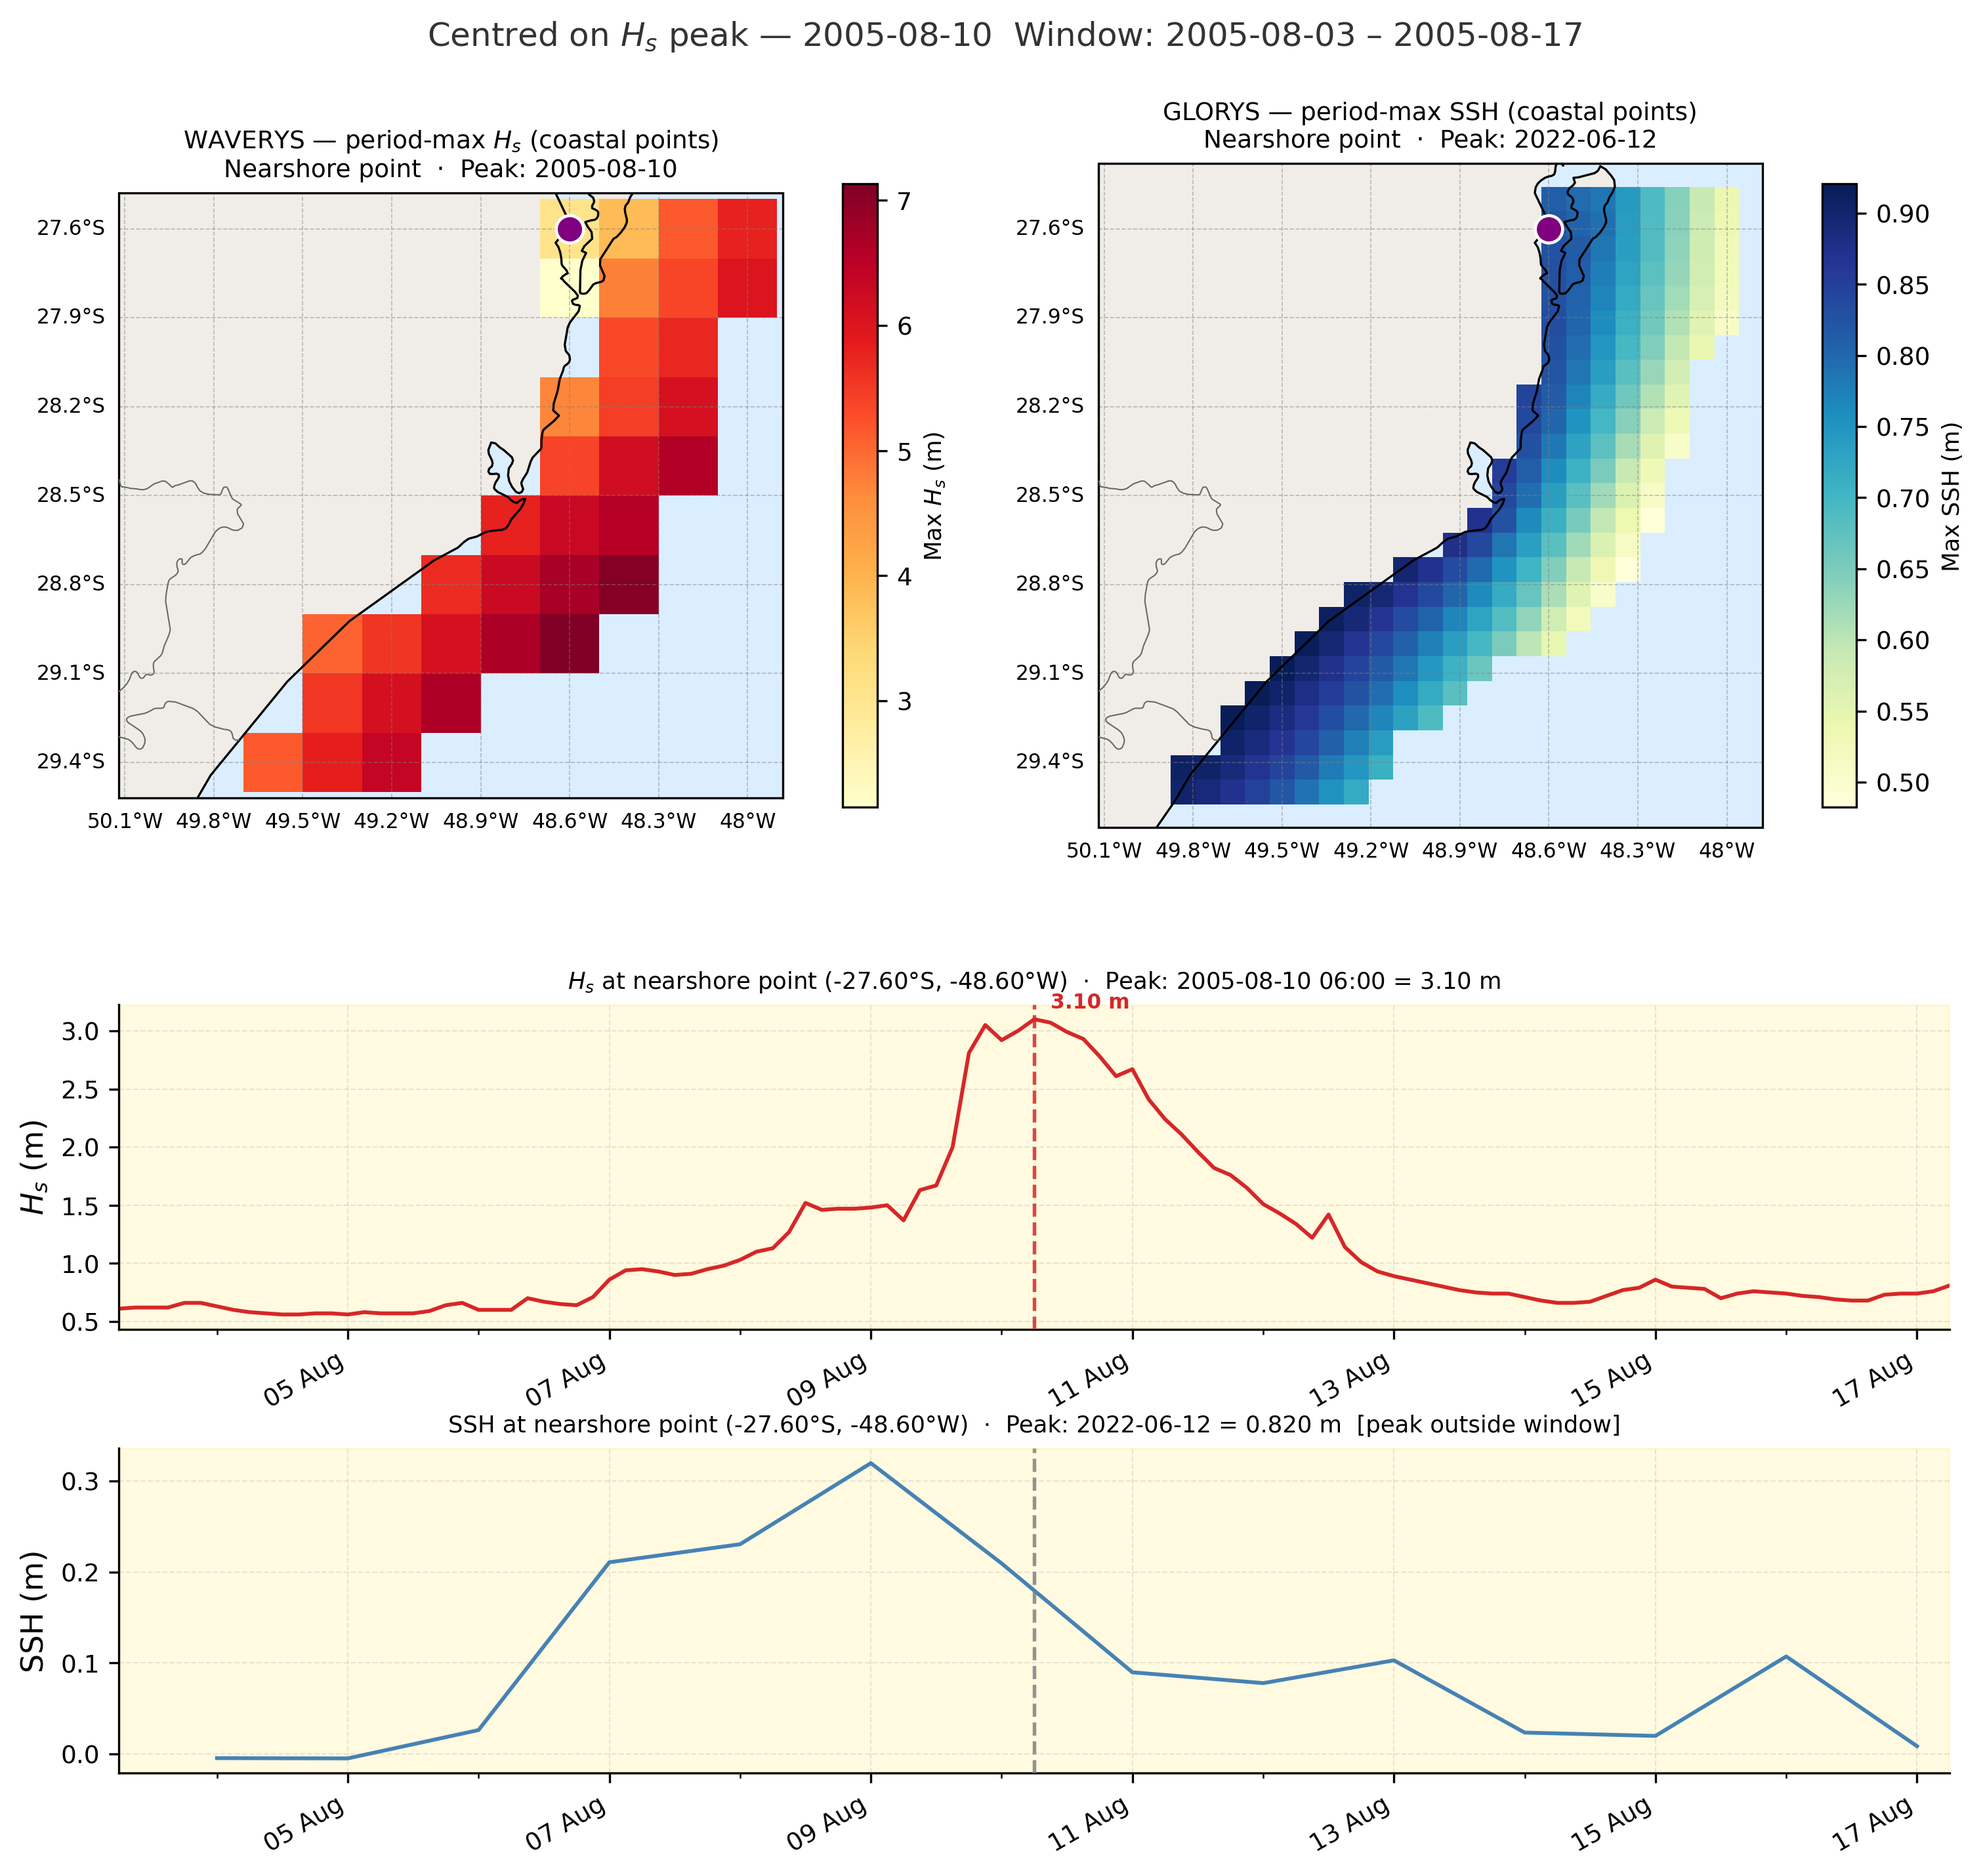
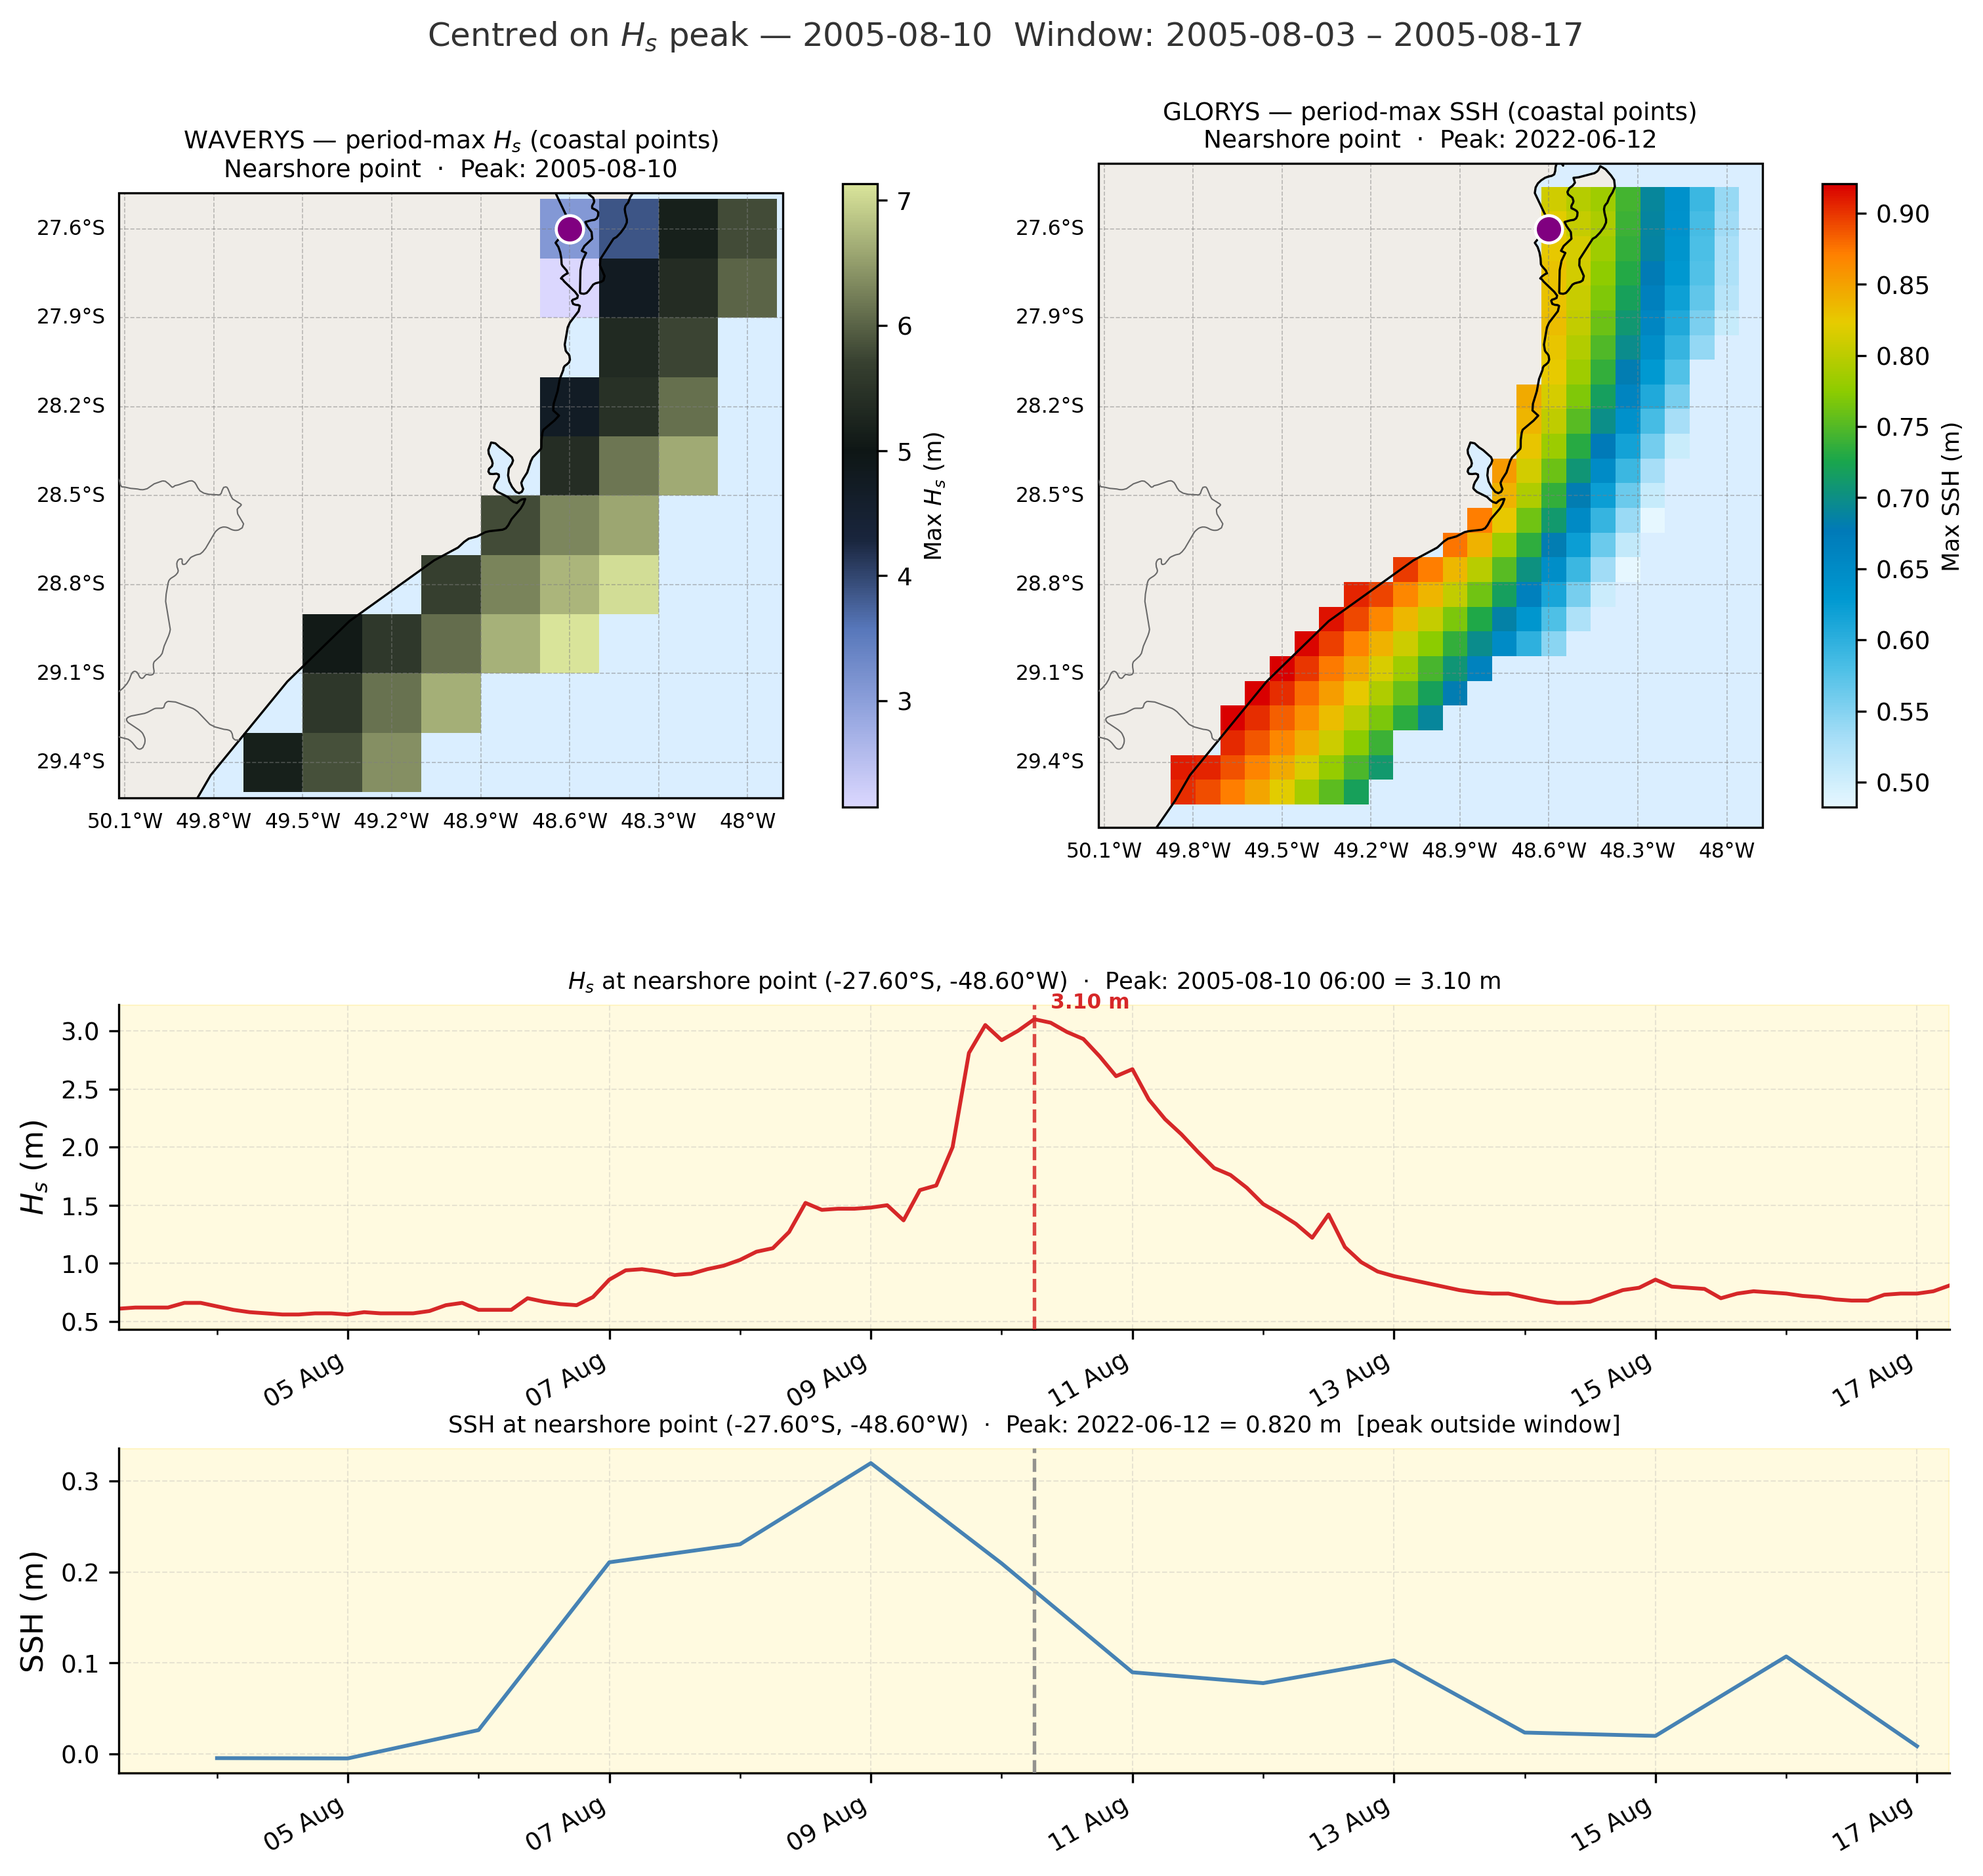
feat: Add custom colormaps for Hs and SSH spatial fields and update README to remove outdated dataset information

Changed region(s): [[0.1244, 0.0934, 0.4666, 0.4358], [0.591, 0.0934, 0.9332, 0.4358]]

diff --git a/config/plot_config.py b/config/plot_config.py
@@ -38,6 +38,7 @@ from dataclasses import dataclass
 from typing import TYPE_CHECKING
 
 import matplotlib.pyplot as plt
+from matplotlib.colors import LinearSegmentedColormap
 
 if TYPE_CHECKING:
     import matplotlib.axes
@@ -104,8 +105,15 @@ class FigureStyle:
     color_reference_span:  str = "gold"       # temporal window shading
 
     # ── Colormaps ─────────────────────────────────────────────────────────────
-    cmap_hs:         str = "YlOrRd"   # Hs spatial fields (yellow-orange-red)
-    cmap_ssh:        str = "YlGnBu"   # SSH spatial fields (diverging)
+
+    crameri_tofino = ['#DBD7FE', '#98A8E1', '#5777BA', '#19253D', '#0E1615', '#374030', '#899365', '#D9E49A']
+    eccharts_wave_height_10 = ['#E6F7FF', '#A6DEF7', '#4CBFE6', '#0099D1', '#007AB8', '#1AA64C', '#8CCC00', '#E6CC00', '#FF8000', '#D90000']
+
+    colors_hs = LinearSegmentedColormap.from_list('crameri-tofino', crameri_tofino)
+    colors_ssh = LinearSegmentedColormap.from_list('eccharts-wave-height-10', eccharts_wave_height_10)
+
+    cmap_hs: str = "crameri-tofino"  # colormap for Hs spatial fields
+    cmap_ssh: str = "eccharts-wave-height-10"  # colormap for SSH spatial fields
     cmap_sequential: str = "viridis"  # generic sequential (scatter colour by year)
 
     # ── Layout ────────────────────────────────────────────────────────────────
@@ -122,6 +130,16 @@ class FigureStyle:
 # ── Global default instance ───────────────────────────────────────────────────
 
 STYLE = FigureStyle()
+
+# ── Register custom colormaps ─────────────────────────────────────────────────
+
+# Register custom colormaps with matplotlib so they can be referenced by string name
+try:
+    plt.colormaps.register(STYLE.colors_hs)
+    plt.colormaps.register(STYLE.colors_ssh)
+except (ValueError, AttributeError):
+    # Already registered or using older matplotlib version
+    pass
 
 
 # ── Public API ────────────────────────────────────────────────────────────────

diff --git a/data/test/README.md b/data/test/README.md
@@ -57,30 +57,6 @@ the Florianópolis–Palhoça area southward to near the border with Rio Grande 
   for co-located Hs and SSH evaluation, rather than independent spatial maxima.
 - Results from these files are exploratory and should not be interpreted as final.
 
-### `metocean_sc_sul_unified_waverys_grid.nc`
-
-| Field               | Value                                          |
-|---------------------|------------------------------------------------|
-| Source              | Derived from GLORYS12 + WAVERYS (see below)    |
-| Variables           | `zos` — sea surface height (m, GLORYS interpolated) · `VHM0` — daily Hs (m) · `VMDR` — daily wave direction (°) |
-| Temporal resolution | Daily                                          |
-| Period              | 1993-01-01 to 2025-12-31                       |
-| Grid                | 10 latitude × 11 longitude points (~0.2° spacing, WAVERYS grid) |
-| Purpose             | Unified input for compound coastal-event analysis |
-
-This file is generated by `src/preprocessing/interpolate_glorys_to_waverys_grid.py`.
-GLORYS `zos` is spatially interpolated (bilinear) onto the WAVERYS grid.
-WAVERYS variables are resampled to daily means.
-See `src/preprocessing/README.md` for full documentation of this step.
-
-To regenerate:
-```bash
-python -m src.preprocessing.interpolate_glorys_to_waverys_grid \
-    --config config/preprocessing/glorys_to_waverys_test.yaml
-```
-
----
-
 ## Subdirectories
 
 - `reported events/` — Excel table of declared coastal disasters in SC (1998–2023)
